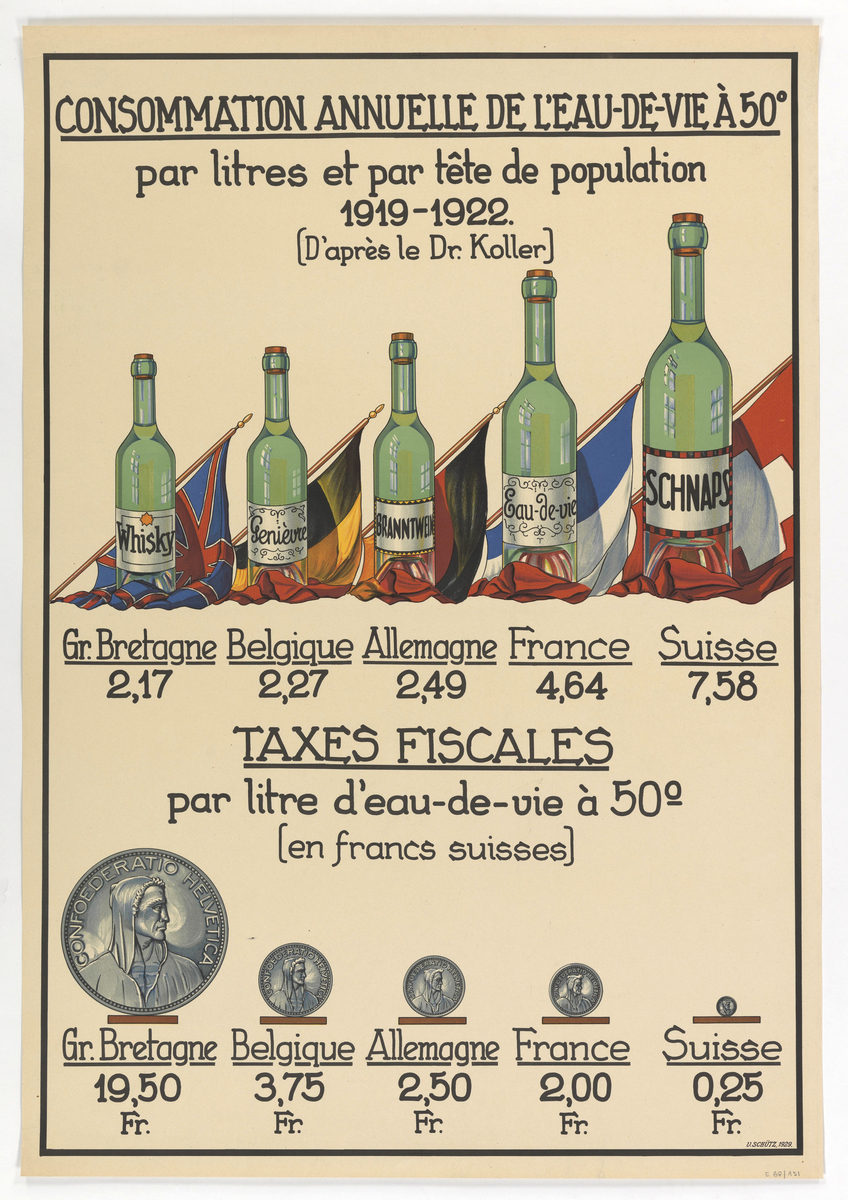
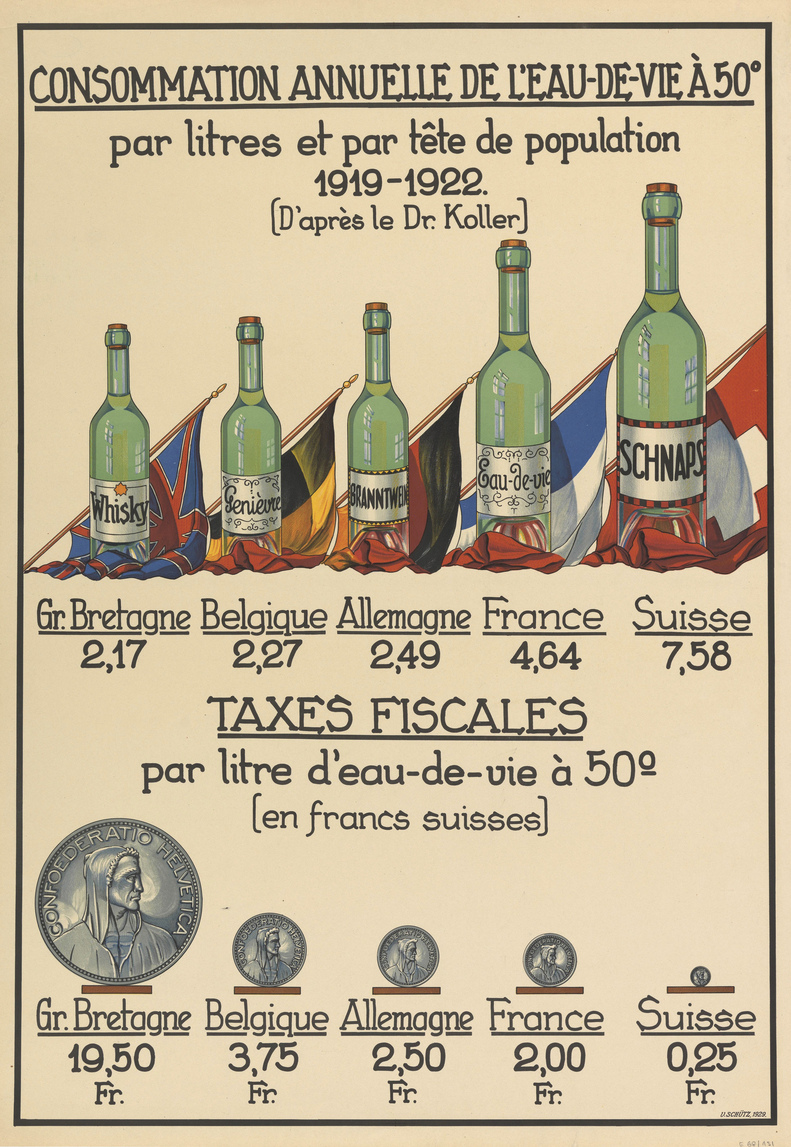
Visual improvements

diff --git a/index.html b/index.html
@@ -62,7 +62,7 @@
       padding: 56px 0 62px;
     }
 
-    /* Keep the name at the top, portrait in the centre, motto lower down. */
+    /* Keep name atop, portrait centre, motto lower down. */
     .intro {
       align-self: stretch;
       display: flex;
@@ -89,7 +89,7 @@
 
     h1 {
       margin: 28px 0 16px;
-      font-size: clamp(25px, 3vw, 50px);
+      font-size: clamp(20px, 2vw, 35px);
       font-weight: normal;
       letter-spacing: -.075em;
       line-height: 1;
@@ -103,9 +103,10 @@
       font-size: clamp(15px, 1.5vw, 20px);
       line-height: 1.55;
       letter-spacing: -.018em;
+      font-style: italic;
     }
 
-    /* A portrait and its companion artwork always change together. */
+    /*Portrait and companion artwork change together. */
     .portrait-stage {
       position: relative;
       flex: 1 1 auto;
@@ -204,7 +205,7 @@
       font-style: italic;
     }
 
-    /* Only the Geisel / Leaf slide displays two slightly overlapping ovals. */
+    /* Geisel - Leaf slide displays slightly overlapping ovals. */
     .portrait-group--duo .portrait-card { z-index: 1; }
     .portrait-group--duo .portrait-card:first-child { z-index: 2; }
     .portrait-group--duo .portrait-card + .portrait-card { margin-left: -25px; }
@@ -213,7 +214,7 @@
       height: clamp(210px, 15vw, 257px);
     }
 
-    /* Signatures stand alone; never attach a signature to someone else's image. */
+    
     .portrait-card--signature .portrait-picture {
       width: clamp(215px, 19vw, 290px);
       height: 186px;
@@ -229,7 +230,7 @@
       border-radius: 0;
       filter: sepia(.6) saturate(.5) contrast(.83);
     }
-    /* The lithographic detail is tiny: keep it smaller than its natural size. */
+    
     .portrait-card--schutz .portrait-picture img {
       max-width: 156px;
       max-height: 45px;
@@ -253,8 +254,7 @@
 
     .gallery { min-width: 0; }
 
-    /* Artwork and caption become a single, softly raised archival mount.
-       Its inner artwork recess complements the raised oval portraits. */
+
     .gallery-mount {
       margin: 0;
       padding: 16px 16px 0;
@@ -348,7 +348,6 @@
       gap: 18px;
       min-height: 104px;
       padding: 20px 6px 22px;
-      /* No separate caption underline: it belongs inside the mount. */
       border: 0;
       background: transparent;
     }
@@ -469,7 +468,7 @@
         <div class="intro">
           
           <h1 id="intro-heading">Mário, Brussels<span class="punctuation">:</span></h1>
-          <p class="intro-line">Generalist from a non-scientific background, <br> chasing data design choices with a lasting social impact</p>
+          <p class="intro-line">Generalist with a non-scientific background <br> Chasing data design choices with a lasting social impact</p>
           <!-- Present even without JavaScript; other portraits are created from the slides array. -->
           <div class="portrait-stage" aria-label="Person associated with the current visualisation">
             <div id="portrait-one" class="portrait-layer is-visible" aria-hidden="false">
@@ -642,7 +641,7 @@
       }
     ];
 
-    // 5. Keep track of which slide is displayed.
+    // 5. Slide tracking.
     const images = [document.querySelector("#image-one"), document.querySelector("#image-two")];
     const portraitLayers = [document.querySelector("#portrait-one"), document.querySelector("#portrait-two")];
     const counter = document.querySelector("#counter");
@@ -674,8 +673,7 @@
       counter.textContent = `${String(slideIndex + 1).padStart(2, "0")} / ${String(slides.length).padStart(2, "0")}`;
     }
 
-    // One linked oval (or signature), or two smaller linked ovals for collaborators.
-    // The visible names are links as well: no separate "Wikipedia" labels.
+    // One linked oval (or signature), two smaller linked ovals for collaborators.
     function renderPortraits(slide, layer) {
       const group = document.createElement("div");
       group.className = slide.portraits.length === 2 ? "portrait-group portrait-group--duo" : "portrait-group";
